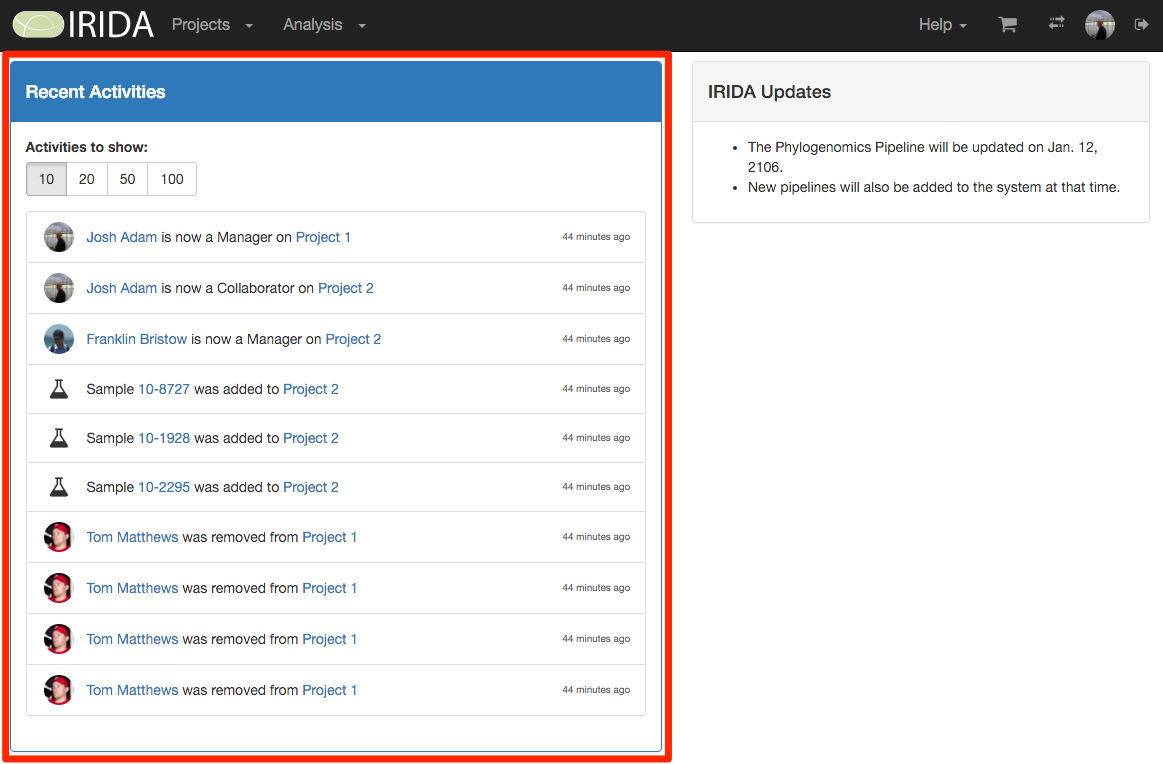
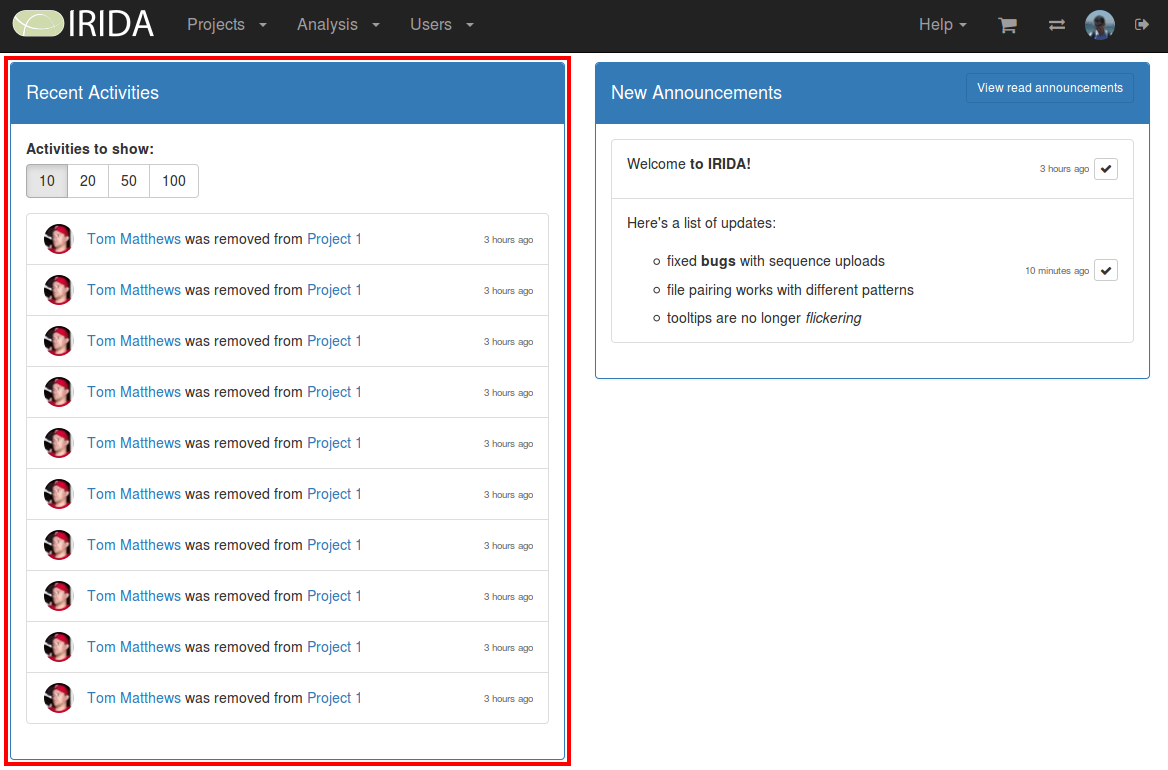
Updated documentation for Users and Admins

Changed region(s): [[0.0, 0.0, 0.9905, 1.0], [0.8667, 0.3312, 0.9596, 0.3613], [0.9596, 0.2709, 0.9905, 0.301]]

diff --git a/doc/user/administrator/index.md b/doc/user/administrator/index.md
@@ -267,11 +267,32 @@ Uploading Data to IRIDA
 =======================
 IRIDA comes with a tool for uploading data from an Illumina MiSeq instrument to IRIDA using the REST API. Please see the [uploading data guide](uploader-tool/) for more information on how to upload data.
 
-Displaying IRIDA Platform Updates
-=================================
-To display updates on the dashboard page, add an `updates.md` markdown file in the `/etc/irida/` directory.  The location of the updates file can be configured in the `/etc/irida/web.conf` file by uncommenting the `updates.file` key and setting the path to your markdown file.
+Displaying IRIDA Platform Updates/Announcements
+===============================================
+Announcements and updates can be displayed to users after they log in:
 
-![IRIDA Platform Updates](images/updates.png)
+![Announcements panel display](images/announcements-display-to-user.png)
+
+Administrators can create new announcements or view existing ones by going into the Admin menu and clicking `Announcements`:
+
+![Announcements administrator menu option](images/announcements-display-to-user.png)
+
+This will bring you into the Announcement Control Centre:
+
+![Announcements control centre page](images/announcements-control-centre.png)
+
+New Announcements can be created by clicking on the `Create New Announcement` button at the top-left. These announcements are rendered as markdown. Saving the new announcement will allow users to see this on the front page of IRIDA.
+
+![Announcements create a new announcement page](images/announcements-create-new.png)
+
+To edit an announcement, or to see who has read the announcement, you can click on the `View Details or Edit Announcement` button: 
+
+![Announcements view details or edit announcement button](images/announcements-view-details-button.png)
+
+The announcement can be edited and saved, or deleted from this page. You can also view a list of users who have marked this particular announcement as read, as well as see when they did so:
+
+![Announcements edit or view details page](images/announcements-edit-details.png)
+
 
 Viewing All Project Exports
 ===========================

diff --git a/doc/user/user/dashboard/index.md b/doc/user/user/dashboard/index.md
@@ -24,7 +24,7 @@ The main IRIDA dashboard has several different areas:
 * The [user settings](#user-settings) menu,
 * The [logout](#logout) button,
 * The [recent activities](#recent-activities) section, and
-* The [updates](#updates) section.
+* The [updates](#updates-announcements) section.
 
 ![The main IRIDA dashboard.](images/dashboard.png)
 
@@ -130,17 +130,29 @@ The recent activities section will show you things like:
 
 All activities in the recent activities section will link to the project or user account that has been modified by the activity.
 
-Updates
-----------------------
+Updates-Announcements
+---------------------
 
-Updates to the IRIDA Platform will be announced on the right panel the dashboard.
+Updates to the IRIDA Platform will be announced on the right side of the dashboard.
 
-![Platform Update section.](images/platform-updates.png)
+![Platform Update/Announcement section.](images/announcements-display-to-user.png)
 
-The platform updates section will show you things like:
+The platform announcements section will show you things like:
 
 * When scheduled downtime will happen.
 * Recently added features or bug fixes.
 * Other platform announcements.
+
+To dismiss an announcements/mark it as read, click the check mark button to the right of the announcement:
+
+![Mark As Read button](images/announcements-mark-as-read-user.png)
+
+If you accidentally marked an announcement as read and want to see it again, or if you would like to view *all* announcements you have marked, click the `View Read Announcements` button:
+
+![View Read Announcements button](images/announcements-view-read-announcements.png)
+
+This will bring you to the `Read Announcements` page, which will show you all announcements you have marked as read. 
+
+![View Read Announcements button](images/announcements-view-read-announcements-page.png)
 
 <a href="../login/">Previous: Logging in</a><a href="../user-groups/" style="float: right;">Next: Managing user groups</a>
